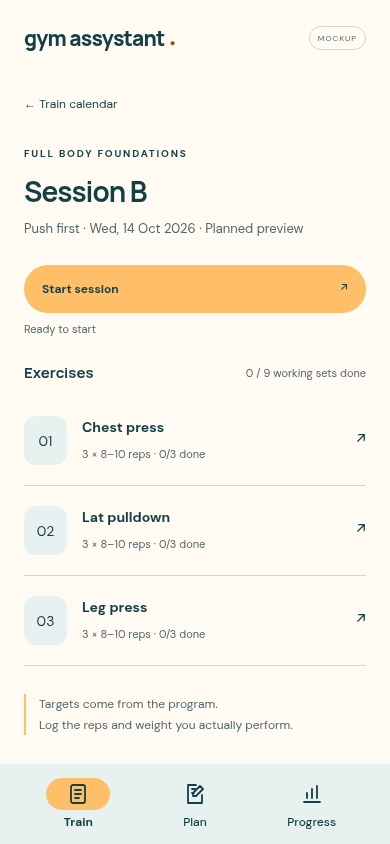
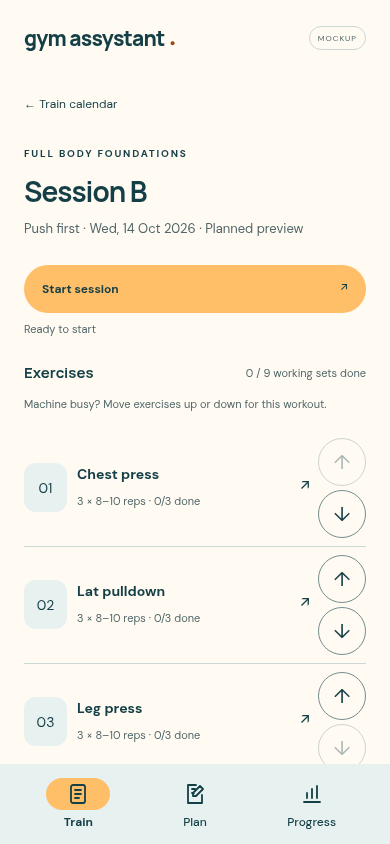
Allow exercise reordering within a dated workout

diff --git a/mockup/app.js b/mockup/app.js
@@ -69,7 +69,7 @@ function openSession(templateId, date) {
   renderSession();
   showView('session', 'backProgram');
 }
-// GYM-001, GYM-005, GYM-008
+// GYM-001, GYM-005, GYM-008, GYM-019
 function renderSession() {
   byId('sessionName').textContent = session().name;
   byId('sessionProgramName').textContent = session().programName.toUpperCase();
@@ -81,7 +81,8 @@ function renderSession() {
   byId('startSession').innerHTML = `${action} <span aria-hidden="true">↗</span>`;
   byId('stopSession').hidden = session().state !== 'active';
   byId('sessionStatus').textContent = session().state === 'stopped' ? 'Stopped · your entries are kept' : session().state === 'active' ? (done === total ? 'All working sets logged · session active' : sessionDate > todayDate ? 'Preview in progress' : 'In progress') : 'Ready to start';
-  byId('exerciseList').innerHTML = session().exercises.map((item, index) => `<button class="exercise-card" data-exercise="${index}"><span class="exercise-number">0${index + 1}</span><span><strong>${escapeHtml(item.name)}</strong><small>${item.sets.length} × ${escapeHtml(item.target)} reps · ${completed(item)}/3 done</small></span><span class="chevron" aria-hidden="true">↗</span></button>`).join('');
+  byId('exerciseList').innerHTML = session().exercises.map((item, index) => `<div class="workout-exercise-row"><button class="exercise-card" data-exercise="${index}"><span class="exercise-number">${String(index + 1).padStart(2, '0')}</span><span><strong>${escapeHtml(item.name)}</strong><small>${item.sets.length} × ${escapeHtml(item.target)} reps · ${completed(item)}/${item.sets.length} done</small></span><span class="chevron" aria-hidden="true">↗</span></button><div class="workout-order-controls"><button data-move-exercise="${escapeHtml(item.entryId)}" data-direction="-1" aria-label="Move ${escapeHtml(item.name)} earlier" ${index === 0 ? 'disabled' : ''}>↑</button><button data-move-exercise="${escapeHtml(item.entryId)}" data-direction="1" aria-label="Move ${escapeHtml(item.name)} later" ${index === session().exercises.length - 1 ? 'disabled' : ''}>↓</button></div></div>`).join('');
+  byId('executionOrderStatus').textContent = '';
 }
 function selectExercise(index) {
   exerciseIndex = index;
@@ -176,6 +177,22 @@ function renderTimer() {
   byId('timerContext').textContent = session().state === 'stopped' ? 'Session stopped · resume from the session screen.' : state[other].startedAt !== null ? `Your ${other} timer is also running.` : 'For this exercise · manual controls';
 }
 byId('exerciseList').addEventListener('click', event => {
+  // GYM-019: only execution order changes; keep the selected object's identity.
+  const move = event.target.closest('[data-move-exercise]');
+  if (move) {
+    const selected = exercise();
+    const entryId = move.dataset.moveExercise;
+    const direction = Number(move.dataset.direction);
+    const next = GymPlan.moveExercise(session(), entryId, direction);
+    if (next < 0) return;
+    exerciseIndex = Math.max(0, session().exercises.indexOf(selected));
+    renderSession();
+    byId('executionOrderStatus').textContent = `${session().exercises[next].name} moved to position ${next + 1}. This workout only.`;
+    const row = byId('exerciseList').children[next];
+    const button = row.querySelector(`[data-direction="${direction}"]`);
+    (button.disabled ? row.querySelector('[data-exercise]') : button).focus();
+    return;
+  }
   const card = event.target.closest('[data-exercise]');
   if (card) selectExercise(Number(card.dataset.exercise));
 });

diff --git a/mockup/index.html b/mockup/index.html
@@ -14,7 +14,7 @@
 
 <div class="section-heading" data-req="GYM-016"><h3>Coming up</h3><span>Next 28 days</span></div><div id="upcomingSessions" data-req="GYM-016"></div>
 </section>
-<section id="session" data-view hidden data-req="GYM-001 GYM-008"><button class="back" id="backProgram">← Train calendar</button><p id="sessionProgramName" class="eyebrow">FULL BODY FOUNDATIONS</p><h2 id="sessionName"></h2><p class="muted" id="sessionFocus"></p><div class="session-start" data-req="GYM-017"><div class="session-actions"><button id="startSession">Start session <span aria-hidden="true">↗</span></button><button id="stopSession" class="session-stop" hidden>Stop session</button></div><p id="sessionStatus" class="field-help" role="status">Ready to start</p></div><div class="section-heading"><h3>Exercises</h3><span id="sessionCount"></span></div><div id="exerciseList"></div><p class="quiet-note">Targets come from the program.<br>Log the reps and weight you actually perform.</p></section>
+<section id="session" data-view hidden data-req="GYM-001 GYM-008 GYM-019"><button class="back" id="backProgram">← Train calendar</button><p id="sessionProgramName" class="eyebrow">FULL BODY FOUNDATIONS</p><h2 id="sessionName"></h2><p class="muted" id="sessionFocus"></p><div class="session-start" data-req="GYM-017"><div class="session-actions"><button id="startSession">Start session <span aria-hidden="true">↗</span></button><button id="stopSession" class="session-stop" hidden>Stop session</button></div><p id="sessionStatus" class="field-help" role="status">Ready to start</p></div><div class="section-heading"><h3>Exercises</h3><span id="sessionCount"></span></div><p class="field-help" data-req="GYM-019">Machine busy? Move exercises up or down for this workout.</p><div id="exerciseList"></div><p id="executionOrderStatus" class="field-help" role="status" data-req="GYM-019"></p><p class="quiet-note">Targets come from the program.<br>Log the reps and weight you actually perform.</p></section>
 <section id="exercise" data-view hidden data-req="GYM-001 GYM-009"><div class="exercise-navigation" data-req="GYM-017"><button class="back" id="back">← Session</button><button id="stopExerciseSession" class="session-stop" hidden>Stop session</button></div>
 <div class="timer-panel" data-req="GYM-012"><div class="timer-tabs" role="group" aria-label="Timer type"><button id="executionMode" aria-pressed="true">Execution</button><button id="recoveryMode" aria-pressed="false">Recovery</button></div><div class="timer-display"><output id="timerValue" aria-label="Execution elapsed time" aria-live="off">00:00</output><span id="timerStatus" role="status">Ready</span></div><div id="recoverySettings" hidden><label for="recoverySeconds">Recovery duration (seconds)</label><input id="recoverySeconds" type="number" min="1" max="3600" step="1" value="90" required></div><div class="timer-actions"><button id="timerToggle">Start</button><button id="timerReset">Reset</button></div><p class="field-help" id="timerContext">For this exercise · manual controls</p></div>
 <p class="eyebrow" id="exerciseCategory"></p><h2 id="exerciseName"></h2><p class="prescription" id="prescription" data-req="GYM-008"></p>

diff --git a/mockup/plan.js b/mockup/plan.js
@@ -42,7 +42,17 @@ const GymPlan = (() => {
     for (const date of Object.keys(draft.dateAssignments)) if (draft.dateAssignments[date] === id) draft.dateAssignments[date] = null;
     return true;
   }
-  const locked = instance => instance && (instance.state !== 'ready' || instance.hasEntries);
+  const locked = instance => instance && (instance.state !== 'ready' || instance.hasEntries || instance.orderChanged);
+  // GYM-019: move the existing exercise object, retaining all occurrence data.
+  function moveExercise(instance, entryId, direction) {
+    const index = instance.exercises.findIndex(item => item.entryId === entryId);
+    const next = index + direction;
+    if (![1, -1].includes(direction) || index < 0 || next < 0 || next >= instance.exercises.length) return -1;
+    const [item] = instance.exercises.splice(index, 1);
+    instance.exercises.splice(next, 0, item);
+    instance.orderChanged = true;
+    return next;
+  }
   function openOccurrence(program, catalog, date, templateId, existing) {
     if (locked(existing)) return existing;
     const template = program.sessions.find(item => item.id === templateId);
@@ -50,7 +60,7 @@ const GymPlan = (() => {
     return {
       date, templateId, programName: program.name, planRevision: program.revision,
       name: template.name, focus: template.focus, label: template.label,
-      state: 'ready', hasEntries: false,
+      state: 'ready', hasEntries: false, orderChanged: false,
       exercises: template.exercises.map(item => {
         const machine = catalog.find(entry => entry.id === item.exerciseId);
         return {
@@ -61,6 +71,6 @@ const GymPlan = (() => {
       })
     };
   }
-  return { clone, validate, apply, removeSession, locked, openOccurrence };
+  return { clone, validate, apply, removeSession, locked, openOccurrence, moveExercise };
 })();
 if (typeof module !== 'undefined') module.exports = GymPlan;

diff --git a/mockup/style.css b/mockup/style.css
@@ -213,3 +213,10 @@ input::placeholder { color: var(--on-surface-variant); opacity: 1; }
 /* GYM-018: editable names wrap within the phone layout. */
 h2, h3, .exercise-card strong { overflow-wrap: anywhere; }
 .exercise-card > span:nth-child(2) { min-width: 0; }
+
+/* GYM-019, GYM-015: workout order controls keep 48px touch targets. */
+.workout-exercise-row { display: flex; align-items: center; gap: 8px; border-bottom: 1px solid var(--outline-variant); }
+.workout-exercise-row .exercise-card { flex: 1; min-width: 0; border-bottom: 0; gap: 10px; }
+.workout-order-controls { display: flex; flex-direction: column; gap: 4px; padding: 8px 0; }
+.workout-order-controls button { width: 48px; height: 48px; padding: 0; border: 1px solid var(--outline); border-radius: var(--shape-full); background: transparent; color: var(--primary); font-size: 20px; }
+.workout-order-controls button:disabled { opacity: .35; cursor: default; }

diff --git a/docs/spec.md b/docs/spec.md
@@ -1,6 +1,6 @@
 # gym assystant — draft specification
 
-Status: revision 4, for exploration. Only a disposable browser mockup is authorized. Android implementation starts after the user decides the scope. Mockup coverage does not mean a production requirement is implemented.
+Status: revision 5, for exploration. Only a disposable browser mockup is authorized. Android implementation starts after the user decides the scope. Mockup coverage does not mean a production requirement is implemented.
 
 ## Purpose
 
@@ -27,7 +27,8 @@ Follow a training program made of multiple training sessions. During each sessio
 | GYM-015 | Follow Android Material 3 UI conventions. | Use consistent shape tokens, pill-shaped action buttons, joined segmented selectors, rounded cards and dialog, an icon-and-label bottom navigation bar with a selected indicator, and at least 48 × 48 CSS-pixel touch areas for standard controls in the phone mockup. Calendar date cells adapt their width to fit seven columns, retaining at least 48 pixels of height. Keep navigation outside the scrolling content. Real Android delivery must use dp and native Material components. Document official guidance in android-ui.md. |
 | GYM-016 | Schedule sessions and browse dated workouts. | Train initially selects today. Selecting a calendar date updates the existing top card with that date, its session (or “No session planned”), and an action opening that dated workout; no popup opens. Previous/next week and Today update the same card. All seven Monday–Sunday dates fit in one row without horizontal scrolling. Upcoming-session taps select that date in the same card. Weekly assignments and individual-date overrides are edited in Plan, not in the execution card. The sample starts with A on Monday, B on Wednesday, C on Friday. Dated logs stay isolated. Future dates say “Preview session”; today/past dates say “View session”. Reload resets edits. |
 | GYM-017 | Start, continue, stop, and resume a session. | Each dated session has Ready, Active, or Stopped state. Start session changes Ready to Active and opens the first exercise with unfinished working sets. Continue session keeps Active and reopens the next unfinished exercise; all sets logged allows reviewing the first exercise. Stop session is available on session and exercise screens while Active; it changes to Stopped, pauses both timers for all exercises in that occurrence, and retains sets, warm-ups, and setup notes. Resume session changes Stopped to Active and reopens the next unfinished exercise without clearing data. Stopped sessions cannot run timers until resumed. Resume does not automatically restart timers; timer start remains manual. Future dates retain preview context. State is isolated by date; reload resets it. No session history is saved. |
-| GYM-018 | Manage a training plan separately from execution. | Plan edits one sample program: its name; 1–7 named session templates with optional focus descriptions; catalog exercises with add/remove/reorder; working-set counts (1–10) and rep ranges (1–50, min ≤ max); assignments for each weekday; and optional per-date assignments or “Use weekly pattern”. Edits are drafts until Save plan validates and applies them. Session templates require at least one exercise. Plan contains prescriptions and schedule controls, not completed sets, actual weights/reps, timers, or Start/Stop actions. Train contains dated execution. Started/stopped sessions and sessions with recorded entries retain a copy of their original prescription; newly opened untouched previews use the saved plan. Removing a template clears its weekly/date assignments but retains existing execution records and access to them. State resets on reload. |
+| GYM-018 | Manage a training plan separately from execution. | Plan edits one sample program: its name; 1–7 named session templates with optional focus descriptions; catalog exercises with add/remove/reorder; working-set counts (1–10) and rep ranges (1–50, min ≤ max); assignments for each weekday; and optional per-date assignments or “Use weekly pattern”. Edits are drafts until Save plan validates and applies them. Session templates require at least one exercise. Plan contains prescriptions and schedule controls, not completed sets, actual weights/reps, timers, or Start/Stop actions. Train contains dated execution. Started/stopped sessions and sessions with recorded entries or an adjusted execution order retain a copy of their original prescription; newly opened untouched previews use the saved plan. Removing a template clears its weekly/date assignments but retains existing execution records and access to them. State resets on reload. |
+| GYM-019 | Reorder exercises within a dated workout when machines are busy. | The Train session list offers move earlier/later controls for each exercise, including before Start and while Active or Stopped. Boundary controls are disabled. Reordering changes only this dated occurrence, never its reusable plan or another date. Exercise identity, prescribed targets, working/warm-up sets, completion, seat notes, and both timers remain attached to the same exercise; running timers continue. The current exercise selection is preserved. Start/Continue/Resume chooses the first exercise with unfinished working sets in the chosen order. The adjusted order survives navigation, Stop/Resume, and plan saves, including a reordered Ready preview; reload resets it. Accessible labels identify the exercise and direction, and an announcement confirms its new position. |
 
 ## Information model and navigation
 
@@ -35,9 +36,9 @@ Follow a training program made of multiple training sessions. During each sessio
 
 Plan prescriptions and execution entries have separate data objects. Stable session IDs connect schedule assignments to templates; renaming or deleting another template does not change those IDs. Execution copies the program name, session name, ordered prescriptions, and plan revision. Edits to actual sets, seat notes, or timers never change the plan.
 
-An untouched Ready preview can be refreshed from the saved plan when reopened. Starting it or recording any entries preserves its snapshot for subsequent visits. The Train calendar prioritizes an existing recorded/started workout for that date even if its template is later changed or removed. Historical statistics still use fictional immutable data; saving real history remains deferred.
+An untouched Ready preview can be refreshed from the saved plan when reopened. Starting it, recording any entries, or adjusting its execution order preserves its snapshot for subsequent visits. The Train calendar prioritizes an existing recorded/started workout for that date even if its template is later changed or removed. Historical statistics still use fictional immutable data; saving real history remains deferred.
 
-Navigation: Train/calendar → dated Session → Exercise; Plan → template editor; Progress → statistics. The sample catalog remains small and illustrative. Add/remove/reorder actions concern planned exercises; actual session warm-ups retain their existing controls. Multiple plans, importing, automatic rotations, and persistent history are not included yet.
+Navigation: Train/calendar → dated Session → Exercise; Plan → template editor; Progress → statistics. The sample catalog remains small and illustrative. Plan controls add/remove/reorder prescribed exercises. Train permits reordering the dated workout separately; actual session warm-ups retain their existing controls. Multiple plans, importing, automatic rotations, and persistent history are not included yet.
 
 ## GYM-010: metric definitions
 

diff --git a/docs/traceability.md b/docs/traceability.md
@@ -1,6 +1,6 @@
 # Bidirectional traceability
 
-Revision 4. All Android delivery is **not started**. “Covered” below means the disposable mockup meets the acceptance criteria in [spec.md](spec.md), not that the Android product is implemented. Search a requirement ID in source comments or `data-req` attributes to trace code back to scope.
+Revision 5. All Android delivery is **not started**. “Covered” below means the disposable mockup meets the acceptance criteria in [spec.md](spec.md), not that the Android product is implemented. Search a requirement ID in source comments or `data-req` attributes to trace code back to scope.
 
 | Requirement | Source anchors / artifact | Verification | Mockup state |
 | --- | --- | --- | --- |
@@ -22,6 +22,7 @@ Revision 4. All Android delivery is **not started**. “Covered” below means t
 | GYM-016 | `calendar.js`: `today`, `week`, `plan`, `upcoming`; `data.js`: sample schedule; `app.js`: `renderCalendar`, `getSession`, date/open handlers; `index.html`: `sessionCard`, week/agenda; `app.js`: Plan scheduling controls | Logic: civil dates, week boundaries, one-date overrides, upcoming/empty state; browser: date taps update the top card without a popup; all seven dates fit; separate Plan assignments and isolated dated logs | Calendar covered; schedule editing in GYM-018; persistence deferred |
 | GYM-017 | `app.js`: `renderSession`, `startSession` handler, `stopSession`, per-date lifecycle state; `index.html`: session start action | Browser: Start/Continue select unfinished exercise; Stop pauses all occurrence timers and preserves entries; Resume retains them; stopped timers are disabled; dates and reload isolate/reset state | Covered in mockup |
 | GYM-018 | `plan.js`: `validate`, `apply`, `removeSession`, `openOccurrence`; `data.js`: prescribed templates; `app.js`: `renderPlan`, `renderTemplate`, `savePlan`, draft/schedule handlers, `plannedForDate`; `index.html`: Plan/Plan session views and Plan navigation | Logic/browser: draft validation, CRUD/reordering, schedule assignments, stable IDs, new/untouched previews reflect saves, recorded sessions survive edits/removal | Covered in mockup; multiple plans and persistence deferred |
+| GYM-019 | `plan.js`: `moveExercise`, `locked`; `app.js`: `renderSession`, exercise-list move handler, Start/Continue selection; `index.html`: execution-order help/status; CSS: `.workout-order-controls` | Logic/browser: data identity and running timer retention, plan/date isolation, boundary controls, adjusted Ready snapshots survive reopening/plan saves, Start/Continue/Resume follow order, 320/390/430px targets | Covered in mockup; persistence deferred |
 
 Source filenames above are under `mockup/`. Meaningful automated checks live in [logic.test.cjs](../tests/logic.test.cjs) and [browser.cjs](../tests/browser.cjs). `package.json` and its lockfile support those checks only; the mockup itself has no build or runtime package dependency.
 
@@ -42,6 +43,7 @@ Source filenames above are under `mockup/`. Meaningful automated checks live in 
 | Selected-date card, fitted week, Plan date assignment and upcoming agenda; per-date session/timer state | GYM-016 |
 | Session Start/Continue/Stop/Resume actions and isolated lifecycle state | GYM-017 |
 | Plan drafts, session/exercise CRUD and order, working-set/rep prescriptions, weekly/date assignments, immutable execution copies | GYM-018 |
+| Dated workout permutation, retained exercise identity and selection, order announcement | GYM-019 |
 | Research briefs and evidence boundaries | GYM-011, GYM-013, GYM-015 |
 
 No e1RM, RIR-entry, adherence statistics, multiple plans, persistent history, notifications, streaks, or recommendations have been added. Research proposals do not count as UI requirements.
@@ -59,3 +61,5 @@ Revision 3, 2026-10-12: 12 logic tests passed, including week/year/leap-day/DST 
 Calendar selection update, 2026-10-12: Chromium checks passed for direct top-card updates without a calendar popup, selected-date session navigation, inline assignment, empty days, Today/week/agenda navigation, and a seven-day row fully visible without scrolling at 320/360/390/430px. Standard controls retain 48px targets; narrow calendar cells follow the documented width exception. Previews were refreshed and reviewed.
 
 Revision 4, 2026-10-13: 16 logic tests passed, including plan/actual separation, stable identities, draft validation, preview refresh, and retention of recorded or stopped snapshots after template removal. Chromium checks passed for session/exercise editing and ordering, weekly/date assignments, Train/Plan/Progress navigation, save validation, updated future workouts, retained active logs, deletion cleanup, and narrow Plan layouts (320/390/430px) with standard touch targets. Plan and template-editor previews were added; existing previews were refreshed and reviewed.
+
+Revision 5, 2026-10-13: 18 logic tests passed. Chromium checks passed for dated workout permutation, preserved working/warm-up logs and seat notes, running timer continuity, Start/Continue/Resume using the selected order, reordering while stopped, disabled boundary controls, untouched plan/other dates, and reordered Ready previews surviving navigation and plan saves. Session controls retain 48px targets at 320/390/430px. The reordered-session preview was added and reviewed; existing previews were refreshed.

diff --git a/README.md b/README.md
@@ -13,8 +13,10 @@ Visit http://localhost:8080/mockup/ . On a phone, use the computer's LAN address
 The bottom navigation separates three activities:
 
 - **Train:** the calendar and dated workout execution. Tap a day to update the top card; all seven days fit across the screen. Start, Continue, Stop, and Resume retain that workout’s logs and timers.
-- **Plan:** edit the sample program, session templates, exercises/order, prescribed sets and rep ranges, and weekly/date assignments. Changes remain drafts until Save plan. New workouts use the saved plan; sessions with recorded entries keep their original targets.
+- **Plan:** edit the sample program, session templates, exercises/order, prescribed sets and rep ranges, and weekly/date assignments. Changes remain drafts until Save plan. New workouts use the saved plan; started, recorded, or reordered workouts keep their own targets and order.
 - **Progress:** explicitly fictional historical performance, independent of current edits.
+
+Move exercises up/down in the Train session list when machines are busy. Only that dated workout changes; sets, notes, and timers stay with each exercise. Start/Continue/Resume follows the chosen order.
 
 Reps and weights, warm-up/working-set completion, seat notes, and execution/recovery timers belong to Train. Template prescriptions contain no actual logged sets or timers. Video access remains a secondary placeholder. The sample starts with A on Monday, B on Wednesday, and C on Friday. Everything resets on reload.
 
